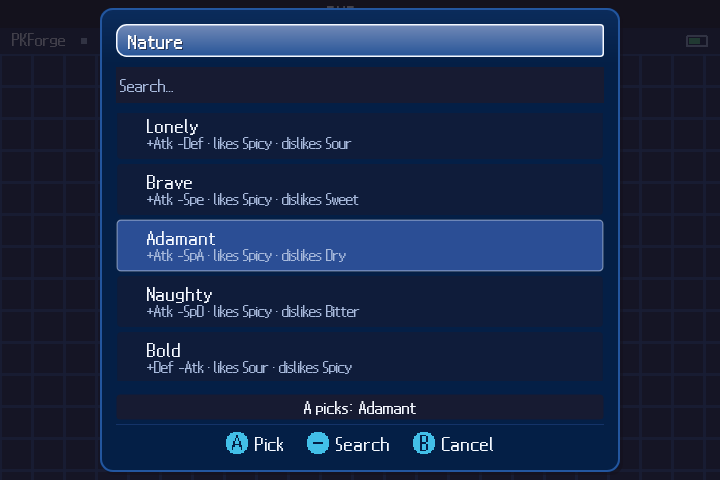
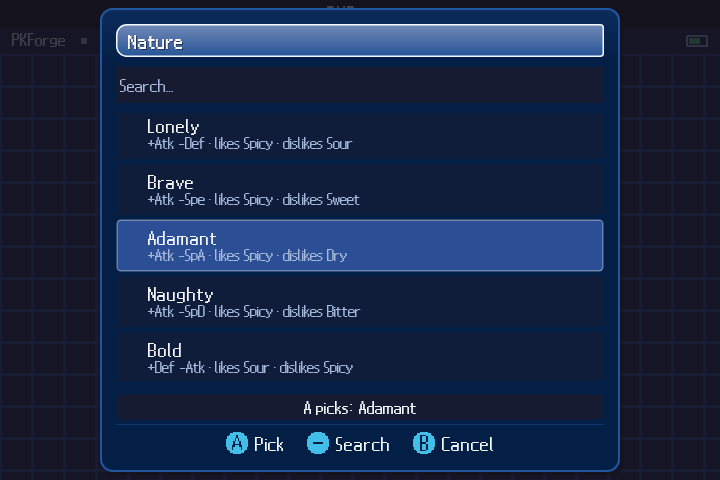
Record exact settled picker label rectangles

diff --git a/docs/parity/picker-settled-720/README.md b/docs/parity/picker-settled-720/README.md
@@ -4,8 +4,8 @@ These disposable-fixture captures show Android v3.1.1 and the Linux raster host
 at 720×480 with Adamant selected after navigation. [The evidence manifest](evidence.json)
 records APK/source/image hashes, measured bounds and the comparison region.
 
-The five compared row-label bounds differ by at most 0.8 pixels. The picker body
-has 91.40% exact pixels; 3,593 changed pixels have no reference color within one
+The five compared row-label rectangles match exactly. The picker body
+has 92.35% exact pixels; 3,589 changed pixels have no reference color within one
 pixel at color tolerance 8. These numbers do not grant acceptance. Remaining
 raster differences, initial opening/centering, the 640px reference and the full
 state/timeline matrix remain open.
